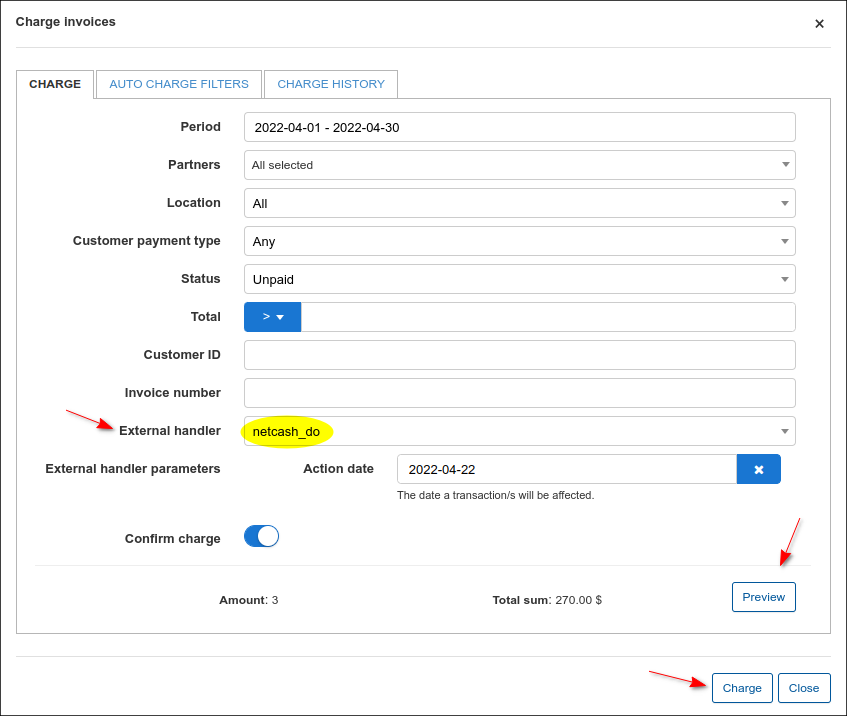
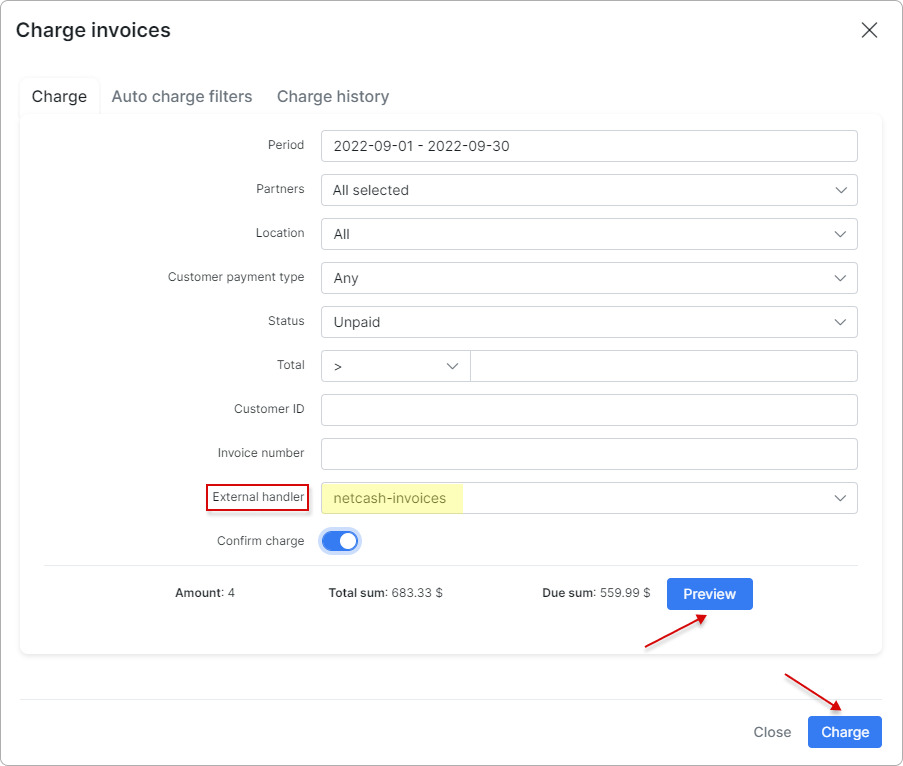
handlers

diff --git a/files/en/configuration/finance/finance_settings/finance_settings.md b/files/en/configuration/finance/finance_settings/finance_settings.md
@@ -29,18 +29,39 @@ In the right top corner of the page, you can select the [partner](administration
 * **Billing day** - day of the month when the customer will be charged and invoice will be generated. If the `Use the customer creation date` option is enabled - the billing day will be set to the day the customer was created (default value is `1`st day of the month. The available values are from `1` to `28`);
 
 <details style="font-size: 15px; margin-bottom: 5px;">
-<summary><b style="color: #FD841F;">Explanation on the Billing day values</b></summary>
+<summary><b style="color: #FD841F;">Explanation of the Billing day</b></summary>
 <div markdown="1" style="margin-top: 15px; font-size: 16px;">
 
 Billing day is the automatic date of invoice creation and also the start of the billing period (for one month).
 Example: Setting to 1 means billing from 1st to end of month and 10 means billing from 10th to the 9th of the next month. 
 
+</div>
+</details>
+
+<details style="font-size: 15px; margin-bottom: 5px;">
+<summary><b style="color: #FD841F;">Why is the billing date limited to 28 days?</b></summary>
+<div markdown="1" style="margin-top: 15px; font-size: 16px;">
+
 The billing day value is limited to 28 to allow us to create invoices on the same day of every month consistently. Thus limited to 28 because of February.
 Should you wish to create invoices on any day between the 29th and 31st you can choose between the 28th or the 1st to create your invoices on these days instead.
+
+</div>
+</details>
+
+<details style="font-size: 15px; margin-bottom: 5px;">
+<summary><b style="color: #FD841F;">Explanation on the actual start of the billing cycle</b></summary>
+<div markdown="1" style="margin-top: 15px; font-size: 16px;">
 
 The start of the actual billing cycle, however, (from which date the customer will be billed from) is determined by the service start date, this will always pro-rate from the service start date to the end of the first billing cycle and then continue to bill as per the normal billing period.
 Example A: If a customer service start date is 15 March and the billing day is set to 1, an invoice generated in March will show the customer being billed from 15 March - 31 March, the next invoice will show 1 April - 30 April etc.
 Example B: If a customer service start date is 15 March and the billing day is set to 1, an invoice generated in April will show the customer being billed from 15 March - 30 April.
+
+</div>
+</details>
+
+<details style="font-size: 15px; margin-bottom: 5px;">
+<summary><b style="color: #FD841F;">Creating invoices on a different date</b></summary>
+<div markdown="1" style="margin-top: 15px; font-size: 16px;">
 
 If you would like to create an invoice on a different date to that of the billing day then the History and Preview tool should be used to create the invoice preview batch on a desired day.
 Example: If you would like to create the invoice batch for April, on the 25th of March, then you would navigate to the history and preview tool on the 25th of March, select 1 April as the Date and click preview. This will create the batch which can be previewed and ultimately confirmed once you are satisfied with the data. All invoices and transactions will then be created and invoices will be sent according to the configured notification settings.

diff --git a/files/en/customer_management/customer_billing/customer_billing.md b/files/en/customer_management/customer_billing/customer_billing.md
@@ -603,19 +603,42 @@ In this section you can set up the billing parameters of the **selected customer
 
 * **Billing day (automatic document date)** - when the customer will be charged and invoices will be generated (default value is `1`st day of the month. The available values are from `1` to `28`);
 
+<a id="explanation"></a>
+<br>
 <details style="font-size: 15px; margin-bottom: 5px;">
-<summary><b style="color: #FD841F;">Explanation on the Billing day values</b></summary>
+<summary><b style="color: #FD841F;">Explanation of the Billing day</b></summary>
 <div markdown="1" style="margin-top: 15px; font-size: 16px;">
 
 Billing day is the automatic date of invoice creation and also the start of the billing period (for one month).
 Example: Setting to 1 means billing from 1st to end of month and 10 means billing from 10th to the 9th of the next month. 
 
+</div>
+</details>
+
+<details style="font-size: 15px; margin-bottom: 5px;">
+<summary><b style="color: #FD841F;">Why is the billing date limited to 28 days?</b></summary>
+<div markdown="1" style="margin-top: 15px; font-size: 16px;">
+
 The billing day value is limited to 28 to allow us to create invoices on the same day of every month consistently. Thus limited to 28 because of February.
 Should you wish to create invoices on any day between the 29th and 31st you can choose between the 28th or the 1st to create your invoices on these days instead.
+
+</div>
+</details>
+
+<details style="font-size: 15px; margin-bottom: 5px;">
+<summary><b style="color: #FD841F;">Explanation on the actual start of the billing cycle</b></summary>
+<div markdown="1" style="margin-top: 15px; font-size: 16px;">
 
 The start of the actual billing cycle, however, (from which date the customer will be billed from) is determined by the service start date, this will always pro-rate from the service start date to the end of the first billing cycle and then continue to bill as per the normal billing period.
 Example A: If a customer service start date is 15 March and the billing day is set to 1, an invoice generated in March will show the customer being billed from 15 March - 31 March, the next invoice will show 1 April - 30 April etc.
 Example B: If a customer service start date is 15 March and the billing day is set to 1, an invoice generated in April will show the customer being billed from 15 March - 30 April.
+
+</div>
+</details>
+
+<details style="font-size: 15px; margin-bottom: 5px;">
+<summary><b style="color: #FD841F;">Creating invoices on a different date</b></summary>
+<div markdown="1" style="margin-top: 15px; font-size: 16px;">
 
 If you would like to create an invoice on a different date to that of the billing day then the History and Preview tool should be used to create the invoice preview batch on a desired day.
 Example: If you would like to create the invoice batch for April, on the 25th of March, then you would navigate to the history and preview tool on the 25th of March, select 1 April as the Date and click preview. This will create the batch which can be previewed and ultimately confirmed once you are satisfied with the data. All invoices and transactions will then be created and invoices will be sent according to the configured notification settings.

diff --git a/files/en/finance/billing_engine/recurring_billing/recurring_billing.md b/files/en/finance/billing_engine/recurring_billing/recurring_billing.md
@@ -30,18 +30,39 @@ The next step of setting up "Recurring billing" will be to choose *Billing day*,
 * **Billing day** - the day invoices will be generated automatically (default value is `1`st day of the month. The available values are from `1` to `28`).
 
 <details style="font-size: 15px; margin-bottom: 5px;">
-<summary><b style="color: #FD841F;">Explanation on the Billing day values</b></summary>
+<summary><b style="color: #FD841F;">Explanation of the Billing day</b></summary>
 <div markdown="1" style="margin-top: 15px; font-size: 16px;">
 
 Billing day is the automatic date of invoice creation and also the start of the billing period (for one month).
 Example: Setting to 1 means billing from 1st to end of month and 10 means billing from 10th to the 9th of the next month. 
 
+</div>
+</details>
+
+<details style="font-size: 15px; margin-bottom: 5px;">
+<summary><b style="color: #FD841F;">Why is the billing date limited to 28 days?</b></summary>
+<div markdown="1" style="margin-top: 15px; font-size: 16px;">
+
 The billing day value is limited to 28 to allow us to create invoices on the same day of every month consistently. Thus limited to 28 because of February.
 Should you wish to create invoices on any day between the 29th and 31st you can choose between the 28th or the 1st to create your invoices on these days instead.
+
+</div>
+</details>
+
+<details style="font-size: 15px; margin-bottom: 5px;">
+<summary><b style="color: #FD841F;">Explanation on the actual start of the billing cycle</b></summary>
+<div markdown="1" style="margin-top: 15px; font-size: 16px;">
 
 The start of the actual billing cycle, however, (from which date the customer will be billed from) is determined by the service start date, this will always pro-rate from the service start date to the end of the first billing cycle and then continue to bill as per the normal billing period.
 Example A: If a customer service start date is 15 March and the billing day is set to 1, an invoice generated in March will show the customer being billed from 15 March - 31 March, the next invoice will show 1 April - 30 April etc.
 Example B: If a customer service start date is 15 March and the billing day is set to 1, an invoice generated in April will show the customer being billed from 15 March - 30 April.
+
+</div>
+</details>
+
+<details style="font-size: 15px; margin-bottom: 5px;">
+<summary><b style="color: #FD841F;">Creating invoices on a different date</b></summary>
+<div markdown="1" style="margin-top: 15px; font-size: 16px;">
 
 If you would like to create an invoice on a different date to that of the billing day then the History and Preview tool should be used to create the invoice preview batch on a desired day.
 Example: If you would like to create the invoice batch for April, on the 25th of March, then you would navigate to the history and preview tool on the 25th of March, select 1 April as the Date and click preview. This will create the batch which can be previewed and ultimately confirmed once you are satisfied with the data. All invoices and transactions will then be created and invoices will be sent according to the configured notification settings.

diff --git a/files/en/payment_systems/netcash_do/netcash_do.md b/files/en/payment_systems/netcash_do/netcash_do.md
@@ -182,7 +182,10 @@ To perform the charge of `Unpaid` invoices, navigate to `Finance → Invoices` o
 
 ![charge1.png](invoices_charge.png)
 
-Invoices can be charged by **full invoice amount** or by **customer balance**:
+**Debit Order Charge Scenarios**
+1. Submit outstanding (due) invoice amounts - use the “netcash-invoices” handler
+2. Submit outstanding balance amounts - use the “netcash-oustanding-balances” handler - Balance charge preview is not working currently and will be fixed in v4.2 of Splynx
+3. Submit outstanding balance or outstanding invoice amounts (but be able to edit them in preview window) - This will be available in v4.2 of Splynx
 
 ![charge1.png](charge.png)
 
